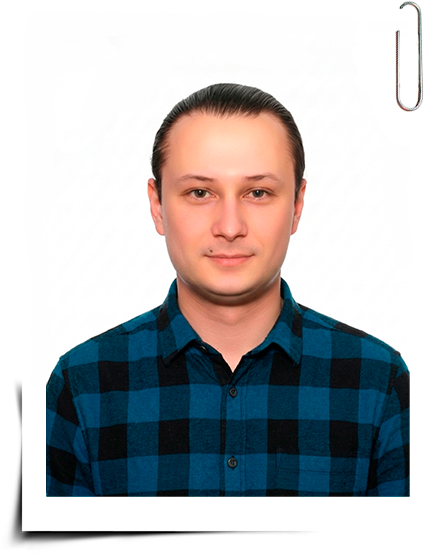
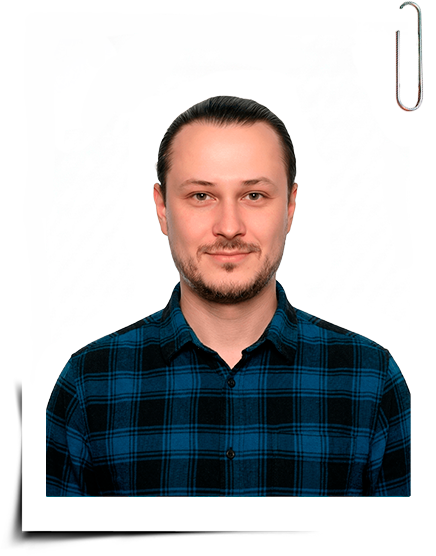
new version

Changed region(s): [[0.0894, 0.1223, 0.9541, 0.9173]]

diff --git a/app/index.html b/app/index.html
@@ -66,11 +66,6 @@
 			<div class="preloader-body">
 				<div class="preloader-block-position">
 				<div class="preloader1">
-					<!-- preload one -->
-						<!-- <div class="preloader-profesion">
-							<div class="text">web developer CV</div>
-						</div>  -->
-					<!-- preload two  -->
 					<div class="border">
 						<div class="preloader-profesion">
 							<div class="text">web developer CV</div>
@@ -163,8 +158,6 @@
 									<div class="container__left" id="container-left">
 									<div class="foto">
 										<div class="foto__block" id="content__black">
-											<!-- <i class="fas fa-user"></i> -->
-											<!-- foto img -->
 											<div class="mobile-block">
 												<div class="border-mob">
 													<div class="fhoto-block">
@@ -173,7 +166,6 @@
 												</div>
 											</div>
 												<img class="img-responsive desktop__photo" src="img/fhoto-cv-2.2.png" alt="#">
-											<!-- foto img -->
 										</div>
 									</div>
 
@@ -229,9 +221,6 @@
 											<a href="tel:+380684036349">068 403-63-49</a>
 											<p><i class="fas fa-envelope"></i></p>
 											<a href="mailto:vitaliynosov2014@gmail.com">vitaliynosov2014@gmail.com</a>
-											<!-- <div class="contact__button">
-												<a href="#form" class="js-button-campaign" data-translate-key="Write-Me">НАПИСАТЬ МНЕ</a>
-											</div> -->
 											<a class="animated-btn js-button-campaign" href="#form">
 												<div>
 												  <span data-translate-key="Write-Me">Написати Мені</span>
@@ -277,12 +266,7 @@
 												</div>
 										
 											</div>
-											<!-- <div class="icons">
-												<a class="icon linkedin" target="_blank" href="https://www.linkedin.com/in/vitaliy-nosov-5543a8173/"><i class="fab fa-linkedin-in"></i></a>
-												<a class="icon github" target="_blank" href="https://github.com/VitaliyNosov"><i class="fab fa-github"></i></a>
-												<a class="icon twitter" target="_blank" href="https://twitter.com/_VitaliyNosov_"><i class="fab fa-twitter"></i></a>
-												<a class="upwork-icon upwork" target="_blank" href="https://www.upwork.com/freelancers/~0169925e95558bcc9c?viewMode=1"><svg xmlns="http://www.w3.org/2000/svg" width="16" height="16" preserveAspectRatio="xMidYMid meet" viewBox="0 0 24 24"><path fill="#034a72" d="M18.561 13.158c-1.102 0-2.135-.467-3.074-1.227l.228-1.076l.008-.042c.207-1.143.849-3.06 2.839-3.06a2.705 2.705 0 0 1 2.703 2.703a2.707 2.707 0 0 1-2.704 2.702zm0-8.14c-2.539 0-4.51 1.649-5.31 4.366c-1.22-1.834-2.148-4.036-2.687-5.892H7.828v7.112a2.551 2.551 0 0 1-2.547 2.548a2.55 2.55 0 0 1-2.545-2.548V3.492H0v7.112c0 2.914 2.37 5.303 5.281 5.303c2.913 0 5.283-2.389 5.283-5.303v-1.19c.529 1.107 1.182 2.229 1.974 3.221l-1.673 7.873h2.797l1.213-5.71c1.063.679 2.285 1.109 3.686 1.109c3 0 5.439-2.452 5.439-5.45c0-3-2.439-5.439-5.439-5.439z"/></svg></a>
-											</div> -->
+
 										</div>
 
 										<div class="languages">
@@ -319,7 +303,7 @@
 											<div class="about__me">
 												<h3 class="p" data-translate-key="HEADING-ONE">Про мене:</h3>
 												<div class="paragraph paragraph-mod-block">
-													<p data-translate-key="SITE-TITLE">Розробляю рішення «під ключ»: перетворюю дизайн-макети на повноцінні робочі сайти, створюю кастомні теми та плагіни, розробляю бізнес-логіку, працюю з Gutenberg та кастомними блоками, використовую довільні поля для гнучкого керування контентом, а також маю досвід роботи з популярними page builder’ами (Elementor, WPBakery тощо). Створюю та оптимізую проєкти WooCommerce з акцентом на продуктивність, UX та SEO, на cms WordPress.
+													<p data-translate-key="SITE-TITLE">Розробляю комплексні рішення на базі WordPress: перетворюю дизайн-макети на повнофункціональні сайти, створюю кастомні теми та плагіни, реалізую бізнес-орієнтовану функціональність і розробляю блоки Gutenberg. Працюю з кастомними полями (ACF, Carbon Fields) і популярними конструкторами сторінок (Elementor, WPBakery). Розробляю та оптимізую проєкти на WooCommerce, приділяючи увагу продуктивності, Core Web Vitals, UX, технічному SEO та підтримуваності коду
 														<p class="wordpress-name">
 															<a class="wordpress-link" target="_blank" href="https://wordpress.org/">
 																<i class="fab fa-wordpress-simple"></i>
@@ -329,41 +313,53 @@
 												</div>
 											</div>
 
-											<!-- <div class="target">
-												<h3 data-translate-key="Purpose">Мета:</h3>
-												<div class="paragraph">
-													<p data-translate-key="Purse-Text">Отримання посади веб-розробника.</p>
-												</div>
-											</div> -->
-
 											<div class="profesionals__skils">
 												<h3 data-translate-key="Professional-Skills">Професійні навички:</h3>
 												<div class="paragraph">
 													<p data-translate-key="">
-														<span>HTML</span>
-														<span>CSS (Sass)</span>
-														<span>JavaScript (ES6+)</span>
-														<span>jQuery</span>
-														<span>React</span>
-														<span>GSAP</span>
-														<span>Bootstrap</span>
-														<span>Tailwind CSS</span>
-														<span>PHP</span>
-														<span>Node.js</span>
-														<span>WordPress</span>
-														<span>WooCommerce</span>
-														<span>ACF/Carbon Fields</span>
-														<span>REST API</span>
-														<span>MySQL</span>
-														<span>Git</span>
-														<span>Docker</span>
-														<span>Webpack</span>
-														<span>Gulp</span>
-														<span>CI/CD</span>
-														<span>Figma</span>
-														<span>Photoshop</span>
-														<span>Illustrator</span>
-														<span>Avocode</span>
+    													<span>PHP</span>
+    													<span>WordPress</span>
+    													<span>WordPress Theme Development</span>
+    													<span>WordPress Plugin Development</span>
+    													<span>WooCommerce</span>
+    													<span>OOP</span>
+    													<span>SOLID Principles</span>
+    													<span>JavaScript (ES6+)</span>
+    													<span>HTML</span>
+    													<span>CSS (Sass)</span>
+    													<span>MySQL</span>
+    													<span>Advanced Custom Fields (ACF)</span>
+    													<span>Carbon Fields</span>
+    													<span>Gutenberg</span>
+    													<span>REST API</span>
+    													<span>GraphQL</span>
+    													<span>Core Web Vitals</span>
+    													<span>Google PageSpeed Insights</span>
+    													<span>Lighthouse</span>
+    													<span>Website Performance Optimization</span>
+    													<span>Technical SEO</span>
+    													<span>Google Tag Manager (GTM)</span>
+    													<span>Caching</span>
+    													<span>CDN</span>
+    													<span>Image Optimization</span>
+    													<span>Git</span>
+    													<span>Docker</span>
+    													<span>CI/CD</span>
+    													<span>Composer</span>
+    													<span>Nginx</span>
+    													<span>React</span>
+    													<span>Next.js</span>
+    													<span>jQuery</span>
+    													<span>Node.js</span>
+    													<span>Webpack</span>
+    													<span>Gulp</span>
+    													<span>Tailwind CSS</span>
+    													<span>Bootstrap</span>
+    													<span>GSAP</span>
+    													<span>Figma</span>
+    													<span>Photoshop</span>
+    													<span>Illustrator</span>
+														<span>AI-Assisted Development</span>
 													</p>
 												</div>
 											</div>
@@ -380,48 +376,18 @@
 
 											<div class="functional__responsibilities">
 												<h3 data-translate-key="Functional-Responsibilities">Обов'язки:</h3>
-													<!-- <div class="paragraph">
-														<p data-translate-key="Responsibilities-Text1">Адаптивная кросс-браузерная верстка сайтов, </br>верстка компонентов веб-приложений.</p>
-														<p data-translate-key="Responsibilities-Text2">Поддержка проектов WordPress.</p>
-														<p data-translate-key="Responsibilities-Text3">Разработка тем с нуля на WordPress.</p>
-														<p data-translate-key="Responsibilities-Text4">Работа с плагинами: Contact Form 7, Duplicator, ACF (Advanced Custom
-															Fields), WooCommerce, Yoast SEO, Polylang, WPML, Page Builder (Elementor, Divi or WPBackery) W3 Total Cache...</p>
-													</div> -->
 
 													<div class="paragraph">
 														<ul>
-															<li data-translate-key="Responsibilities-Text1">Розробка та впровадження нових функцій і можливостей.</li>
-															<li data-translate-key="Responsibilities-Text2">Створення та супровід архітектури веб-сайту.</li>
-															<li data-translate-key="Responsibilities-Text3">Забезпечення технічними аспектами CMS.</li>
-															<li data-translate-key="Responsibilities-Text4">Адаптивний дизайн і перетворення на робочу тему та плагін.</li>
-															<li data-translate-key="Responsibilities-Text5">Нарізка/верстка дизайнів файлів у HTML, CSS, JS.</li>
-															<li data-translate-key="Responsibilities-Text6">Створення нових тем WordPress з нуля.</li>
-															<li data-translate-key="Responsibilities-Text7">Отладка и улучшение существующих сайтов WordPress.</li>
-															<li data-translate-key="Responsibilities-Text8">Налагодження та поліпшення наявних сайтів WordPress.</li>
-															<li data-translate-key="Responsibilities-Text9">Перенесення, розгортання веб-сайту на хостингу.</li>
+															<li data-translate-key="Responsibilities-Text1">Розробка тем і плагінів WordPress</li>
+															<li data-translate-key="Responsibilities-Text2">Створення кастомного функціоналу та архітектури CMS</li>
+															<li data-translate-key="Responsibilities-Text3">Адаптивна верстка на HTML, CSS і JavaScript</li>
+															<li data-translate-key="Responsibilities-Text4">Налагодження та підтримка сайтів</li>
+															<li data-translate-key="Responsibilities-Text5">Оптимізація продуктивності та PageSpeed</li>
+															<li data-translate-key="Responsibilities-Text6">Перенесення сайтів і розгортання на хостингу</li>
 														</ul>
 													</div>
 													<br>
-													<!-- <h3>Плагины с которыми я работаю:</h3>
-													<div class="div-plugin">
-														<div class="plugin-top"><div class="dash-border"></div></div>
-													<marquee bgcolor="#034A72"
-														onmouseout="this.start()" 
-														onmouseover="this.stop()">
-														<span class="string-bg"> -->
-														<!-- <b>Бегущая строка останавливается при наведении</b> -->
-														<!-- <a class="link-custom" href="#">Advanced Custom Fields</a>
-														<a class="link-custom" href="#">Contact Form 7</a>
-														<a class="link-custom" href="#">WooCommerce</a>
-														<a class="link-custom" href="#">WooCommerce</a>
-														<a class="link-custom" href="#">WooCommerce</a>
-														<a class="link-custom" href="#">WooCommerce</a>
-														<a class="link-custom" href="#">WooCommerce</a>
-														<a class="link-custom" href="#">WooCommerce</a>
-														</span>
-													</marquee>
-														<div class="plugin-buttom"><div class="dash-border"></div></div>
-													</div> -->
 											</div>
 
 
@@ -430,30 +396,6 @@
 												
 												<div class="block one">
 
-													<!-- <div class="block__item title block__one">
-														<div class="block__title title" data-translate-key="Work-Html">Верстка «HTML»:</div>
-														<div class="block__text">
-															<a class="work__link" target="_blank"
-															href="https://github.com/VitaliyNosov/MIA-Clinic">https://github.com/VitaliyNosov/MIA-Clinic</a>
-															<br>
-															<a class="work__link" target="_blank"
-																href="https://github.com/VitaliyNosov/Lost-Dog">https://github.com/VitaliyNosov/Lost-Dog</a>
-															<br>
-															<a class="work__link" target="_blank"
-																href="https://github.com/VitaliyNosov/Top-Cleaner">https://github.com/VitaliyNosov/Top-Cleaner</a>
-															<br>
-															<a class="work__link" target="_blank"
-																href="https://github.com/VitaliyNosov/WeHeppy">https://github.com/VitaliyNosov/WeHeppy</a>
-															<br>
-															<a class="work__link" target="_blank"
-																href="https://github.com/VitaliyNosov/Rock">https://github.com/VitaliyNosov/Rock</a>
-															<br>
-															<a class="work__link" target="_blank"
-																href="https://github.com/VitaliyNosov/Aqualand">https://github.com/VitaliyNosov/Aqualand</a>
-															<br>
-														</div>
-													</div> -->
-												
 													<div class="block__item block__two">
 														<div class="block__title" data-translate-key="Themes-WordPress">Проекти на «WordPress»:</div>
 														<div class="block__text">
@@ -485,14 +427,6 @@
 														</div>
 													</div>
 												
-													<!-- <div class="block__item block__three">
-														<div class="block__title" data-translate-key="Applications-React">Приложение на "React":</div>
-														<div class="block__text">
-															<a class="work__link" target="_blank"
-																href="https://github.com/VitaliyNosov/Todo-List">https://github.com/VitaliyNosov/Todo-List</a>
-														</div>
-													</div> -->
-												
 												</div>
 
 											</div>
@@ -500,19 +434,9 @@
 											<div class="education">
 												<h3 data-translate-key="Education">Освіта:</h3>
 												<div class="paragraph">
-													<!-- <p data-translate-key="Education-One">Індустріальний коледж України</p> -->
-													<p data-translate-key="Education-Two">Національна металургійна академія України 123</p>
+													<p data-translate-key="Education-Two">Національна металургійна академія України</p>
 												</div>
 											</div>
-
-											<!-- <div class="personal__qualities">
-												<h3 data-translate-key="Personal-Qualities">Личные качества:</h3>
-												<div class="paragraph">
-													<p data-translate-key="Qualities-Text">Внимательность, ответственность, техническое мышление,
-														сосредоточенность, высокая степень самоорганизации, дисциплинированность, ориентированность на достижение результата.</p>
-														
-												</div>
-											</div> -->
 
 										</div>
 										</div>

diff --git a/app/js/scripts.min.js b/app/js/scripts.min.js
@@ -119,7 +119,6 @@ var theme = 0;
 			var icon = document.querySelector('#theme-icon');
 			var body = document.querySelector('body');
 			var content = document.querySelector('#content');
-			// var content2 = document.querySelector('#content__black');
 			var content3 = document.querySelector('#switcer');
 			var p = document.querySelector('.p');
 			var buttonOne = document.querySelector('.close');
@@ -131,14 +130,11 @@ var theme = 0;
 			var input2 = document.querySelector('.inputTwo');
 			var input3 = document.querySelector('.textarea');
 			var popup = document.querySelector('.popup');
-			// var block__one = document.querySelector('.block__one')
 			var block__two = document.querySelector('.block__two')
-			// var block__three = document.querySelector('.block__three')
 
 			icon.style.color = '#9F2100';
 			body.style.background = '#17212B';
 			content.style.background = 'rgba(36, 47, 61, 0.5)';
-			// content2.style.background = '#1D2733';
 			content3.style.background = '#1D2733';
 			p.style.color = '#D7D7D7';
 			buttonOne.style.color = '#D7D7D7';
@@ -150,9 +146,7 @@ var theme = 0;
 			input2.style.color = '#007ACC';
 			input3.style.color = '#007ACC';
 			popup.style.background = '#17212B';
-			// block__one.style.borderBottom ='1px dashed #fff';
 			block__two.style.borderBottom ='1px dashed #fff';
-			// block__three.style.borderBottom ='1px dashed #fff';
 
 			theme = 1;
 		}
@@ -160,7 +154,6 @@ var theme = 0;
 			var icon = document.querySelector('#theme-icon');
 			var body = document.querySelector('body');
 			var content = document.querySelector('#content');
-			// var content2 = document.querySelector('#content__black');
 			var content3 = document.querySelector('#switcer');
 			var p = document.querySelector('.p');
 			var buttonOne = document.querySelector('.close');
@@ -172,15 +165,12 @@ var theme = 0;
 			var input2 = document.querySelector('.inputTwo');
 			var input3 = document.querySelector('.textarea');
 			var popup = document.querySelector('.popup');
-			// var block__one = document.querySelector('.block__one')
 			var block__two = document.querySelector('.block__two')
-			// var block__three = document.querySelector('.block__three')
 
 
 			icon.style.color = '#034A72';
 			body.style.background = '#EBEBEB';
 			content.style.background = 'rgba(255, 255, 255, 0.8)';
-			// content2.style.background = '#fff';
 			content3.style.background = '#fff';
 			p.style.color = '#000';
 			buttonOne.style.color = '#000';
@@ -192,9 +182,7 @@ var theme = 0;
 			input2.style.color = '#1A1A1A';
 			input3.style.color = '#1A1A1A';
 			popup.style.background = '#fff';
-			// block__one.style.borderBottom ='1px dashed #000000';
 			block__two.style.borderBottom ='1px dashed #000000';
-			// block__three.style.borderBottom ='1px dashed #000000';
 			
 			theme = 0;
 		}
@@ -227,9 +215,7 @@ var dict = {
         'Themes-WordPress':'Projects "WordPress":',
         'Applications-React':'"React" Application:',
         'Education':'Education:',
-        // 'Education-One':'National Metallurgical Academy of Ukraine',
         'Education-Two':'National Metallurgical Academy of Ukraine',
-        // 'Personal-Qualities':'Personal qualities:',
         'Qualities-Text':'Attentiveness, responsibility, technical thinking, poise, concentration, high degree of self- organization, discipline, focus on achieving results.',
         'HEADING-ONE':'About me:',
         'SOME-TEXT':'Some text in tag P',
@@ -259,10 +245,10 @@ var dict = {
         'Purse-Text':'Отримання посади веб-розробника.',
         'Professional-Skills':'Професійні навички:',
         'Experience':'Досвід роботи:',
-        'Experience-Content':'HTML Coder, Лютий 2017 - Лютий 2018.',
-        'Experience-Content-two':'WordPress Developer, Лютий 2018 - Жовтень 2020.',
-        'Experience-Content-three':'WordPress Developer, Жовтень 2020 - Грудень 2022.',
-        'Experience-Content-four':'WordPress Developer, Червень 2022 - Теперішній час.',
+        'Experience-Content':'html coder, Лютий 2017 - Лютий 2018.',
+        'Experience-Content-two':'wordpress-developer, Лютий 2018 - Жовтень 2020.',
+        'Experience-Content-three':'wordpress-developer, Жовтень 2020 - Грудень 2022.',
+        'Experience-Content-four':'wordpress-developer, Червень 2022 - Теперішній час.',
         "Functional-Responsibilities": "Обов'язки:",
         'Responsibilities-Text1':'Розробка та впровадження нових функцій і можливостей.',
         'Responsibilities-Text2':'Створення та супровід архітектури веб-сайту.',
@@ -278,9 +264,7 @@ var dict = {
         'Themes-WordPress':'Проекти на «WordPress»:',
         'Applications-React':'Додаток на «React»:',
         'Education':'Освіта:',
-        // 'Education-One':'Національна металургійна академія України',
         'Education-Two':'Національна металургійна академія України',
-        // 'Personal-Qualities': 'Личные качества:',
         'Qualities-Text':'Уважність, відповідальність, технічне мислення, зосередженість, високий ступінь самоорганізації, дисциплінованість, орієнтованість на досягнення результату.',
         'HEADING-ONE':'Про мене:',
         'SOME-TEXT':'Some text in tag P',

diff --git a/app/sass/main.sass b/app/sass/main.sass
@@ -24,6 +24,7 @@ Chrome, Edge и Safari
   +firefox-scrollbar
   +webkit-scrollbar
 
+
 // preloader two
 
 .border
